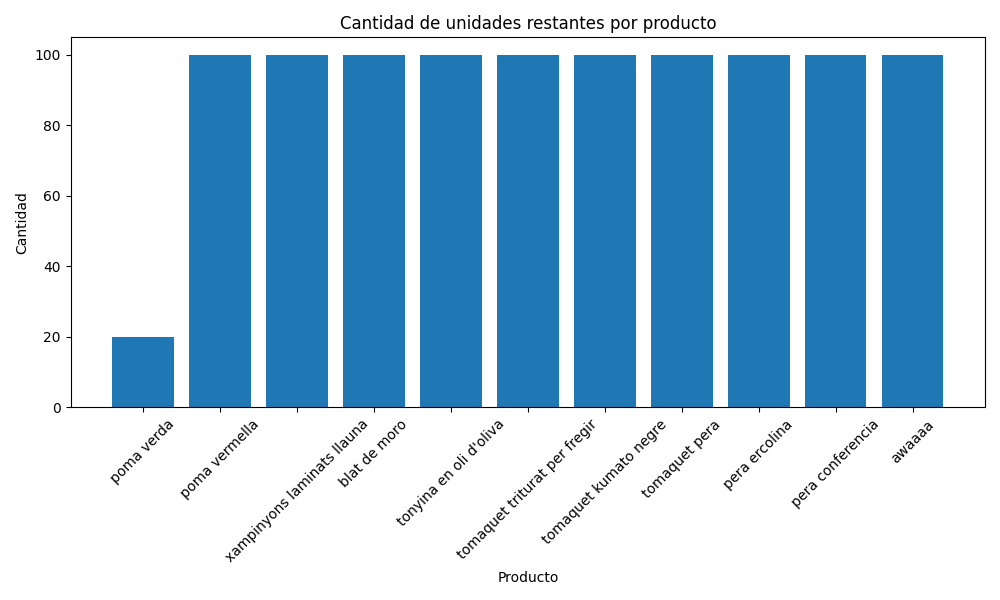
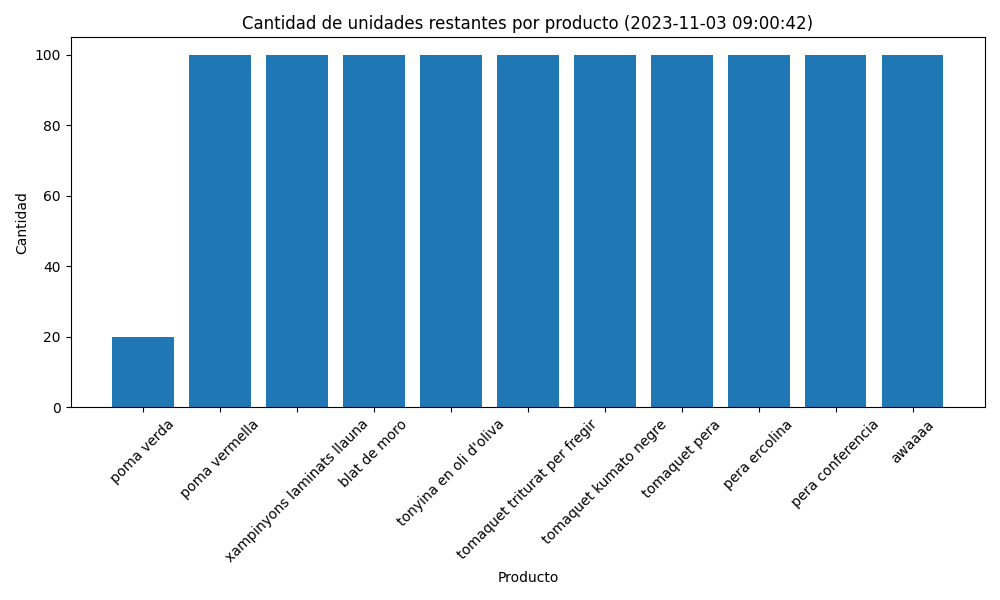
imatge amb datetime

Changed region(s): [[0.248, 0.03, 0.806, 0.06]]

diff --git a/backend/node/estadistiques.py b/backend/node/estadistiques.py
@@ -1,6 +1,7 @@
 import pandas as pd
 import matplotlib.pyplot as plt
 import mysql.connector
+from datetime import datetime
 
 
 def establecer_conexion():
@@ -25,11 +26,17 @@ def obtener_productos_ordenados_cantidad(cursor):
     #si pongo fetchone coge solo el primero
     return cursor.fetchall()
 
-def crear_grafico(df,filename):
+def crear_grafico(df, filename):
     """Crea un gráfico de barras a partir de un DataFrame."""
     plt.figure(figsize=(10, 6))
     plt.bar(df['nom'], df['quantitat'])
-    plt.title('Cantidad de unidades restantes por producto')
+    
+    # Obtiene la fecha actual
+    fecha_actual = datetime.now().strftime('%Y-%m-%d %H:%M:%S')
+    
+    # Utiliza la fecha actual en el título del gráfico
+    plt.title(f'Cantidad de unidades restantes por producto ({fecha_actual})')
+    
     plt.xticks(rotation=45)
     plt.xlabel('Producto')
     plt.ylabel('Cantidad')
